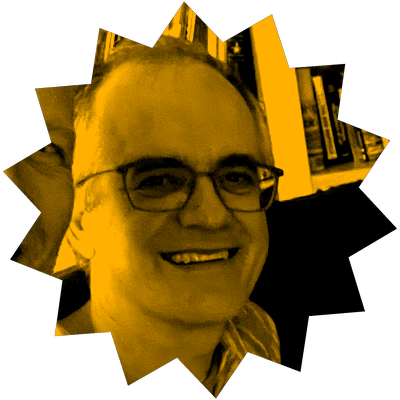
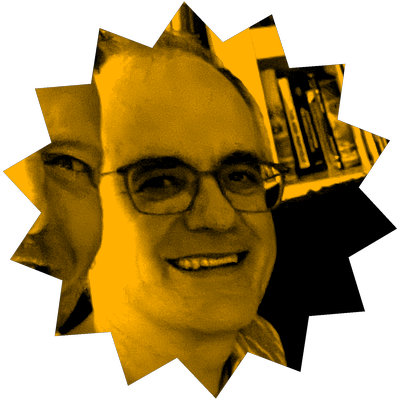
Drop face 233 (not Chris); 37 stars

diff --git a/src/ui.ts b/src/ui.ts
@@ -22,7 +22,7 @@ export const BANNER = String.raw`
  * readable; opaque cards hide whatever sits under them. There are more face
  * images than spots, so each page load samples a random subset.
  */
-const FACE_COUNT = 38;
+const FACE_COUNT = 37;
 // Jittered 7x4 grid over the whole viewport; center spots sit behind the
 // opaque cards/panels, so they only peek out around the content.
 const FACE_SPOTS: Array<[pos: string, top: string, w: number]> = [

diff --git a/tools/star_faces.py b/tools/star_faces.py
@@ -9,10 +9,10 @@ from PIL import Image, ImageDraw, ImageEnhance, ImageOps
 
 # Face ids confirmed as Chris Manning from the contact sheets.
 # One id per source photo (duplicate detections of the same shot excluded).
-# (10, 17 dropped: double-exposure ghosting; 78 dropped: not Chris)
+# (10, 17 dropped: double-exposure ghosting; 78, 233 dropped: not Chris)
 CHRIS = [
     4, 20, 31, 50, 99, 101, 111, 114, 120, 128, 139,
-    160, 168, 170, 175, 192, 211, 216, 218, 223, 229, 231, 233, 238,
+    160, 168, 170, 175, 192, 211, 216, 218, 223, 229, 231, 238,
     250, 252, 260, 269, 279, 288, 295, 303, 308, 316, 321, 330, 333, 338,
 ]
 
